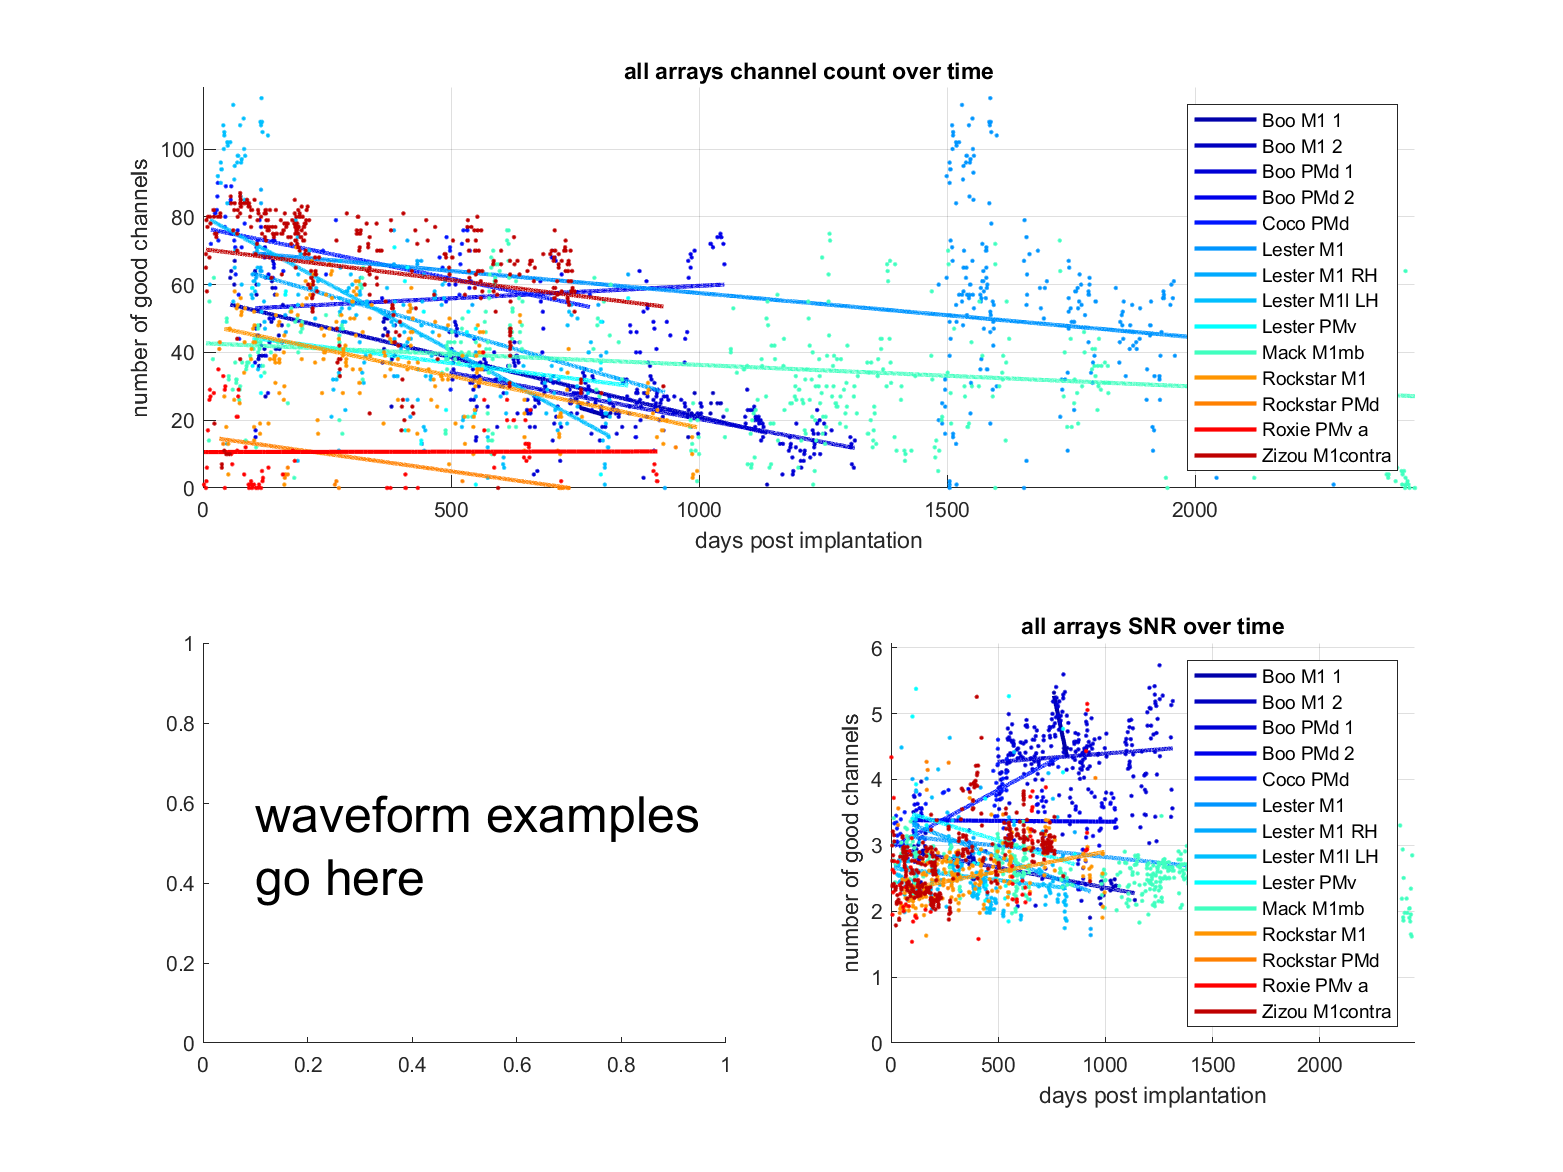
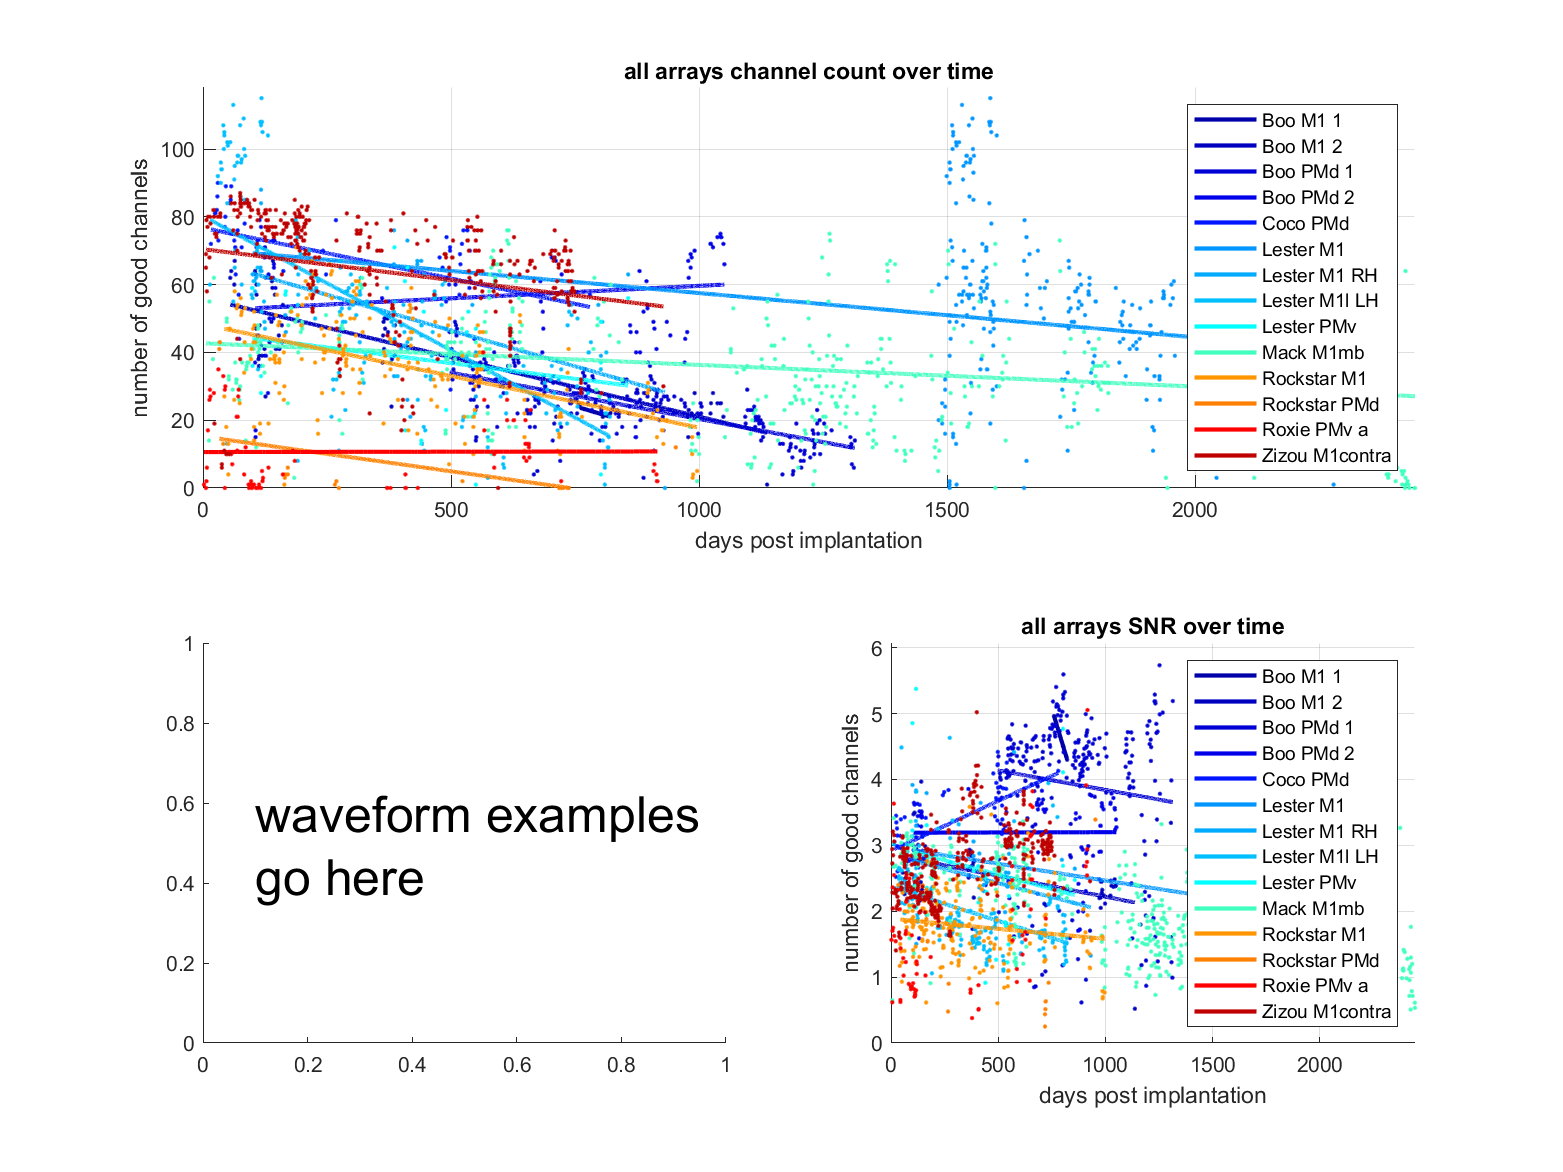
implement figure two code

Changed region(s): [[0.5528, 0.6143, 0.7678, 0.8601], [0.8906, 0.7679, 0.9213, 0.7986]]

diff --git a/code/paper_figures_code/figure_two.m b/code/paper_figures_code/figure_two.m
@@ -1,0 +1,139 @@
+function figure_two(array_data)
+
+figure('name','Long-term, chronic array recordings','visible','off','color','w');
+box off
+array_names = unique({array_data.array_name});
+colors = autumn(4);
+set(gcf,'pos',[350,200,1000,750])
+
+%% Figure 2a. Mean (se) number of channels over all arrays versus DPI.
+
+% histcounts and average
+iPlotName = 1;
+for iArray = 1:length(array_names)
+    file_count = 1;
+    for iFile = 1:size(array_data,2)
+        if strcmp(array_data(iFile).array_name,array_names{iArray})
+            good_channels_temp(file_count) = array_data(iFile).num_good_channels_corrected;
+            relative_days_temp(file_count) = array_data(iFile).relative_days;
+            file_count = file_count + 1;
+        end
+    end
+    
+        plot_names{iPlotName} = strrep(array_names{iArray},'_',' ');
+        quad_fit_to_good_channels = polyfit(relative_days_temp,good_channels_temp,1);
+        quad_fit_to_good_channels = ...
+            polyval(quad_fit_to_good_channels,min(relative_days_temp):max(relative_days_temp));
+        
+        if max(quad_fit_to_good_channels)>128
+            disp('stop, who are you even')
+        else
+            subject_lines{iPlotName,1} = min(relative_days_temp):max(relative_days_temp);
+            subject_lines{iPlotName,2} = quad_fit_to_good_channels;
+        end
+        
+        averaging_prep(iArray,subject_lines{iPlotName,1}) = subject_lines{iPlotName,2};
+%         averaging_prep(iArray,1:min(subject_lines{iPlotName,1})-1) = NaN;
+%         averaging_prep(iArray,max(subject_lines{iPlotName,1})+1:max([array_data.num_good_channels_corrected])) = NaN;
+       
+        
+        iPlotName = iPlotName + 1;
+    
+    clear good_channels_temp
+    clear relative_days_temp
+end
+
+averaging_prep(averaging_prep == 0) = NaN;
+avg_channels = nanmean(averaging_prep,1);
+avg_channels(isnan(avg_channels)) = 0;
+std_channels = nanstd(averaging_prep,1);
+std_channels(isnan(std_channels)) = 0;
+
+subplot(2,1,1); hold on;
+
+HSV_color = rgb2hsv(colors(1,:));
+HSV_color(2) = HSV_color(2) * .6;
+patch_color = hsv2rgb(HSV_color);
+
+patch([1:length(avg_channels) fliplr(1:length(avg_channels))],[avg_channels+std_channels fliplr(avg_channels-std_channels)],patch_color,'edgecolor','none')
+plot(avg_channels,'linewidth',2,'Color',colors(1,:));
+
+
+box off
+grid on
+xlabel('days post implantation');
+ylabel('Number of Good Channels');
+title('mean channel count over time');
+
+clear averaging_prep
+clear HSV_color
+%% Figure 2b. Mean (se) SNR over all arrays versus DPI.
+
+
+iPlotName = 1;
+for iArray = 1:length(array_names)
+    file_count = 1;
+    for iFile = 1:size(array_data,2)
+        if strcmp(array_data(iFile).array_name,array_names{iArray})
+            SNR_temp(file_count) = array_data(iFile).SNR_all_channels;
+            relative_days_temp(file_count) = array_data(iFile).relative_days;
+            file_count = file_count + 1;
+        end
+    end
+    
+        plot_names{iPlotName} = strrep(array_names{iArray},'_',' ');
+        quad_fit_to_SNR = polyfit(relative_days_temp,SNR_temp,1);
+        quad_fit_to_SNR = ...
+            polyval(quad_fit_to_SNR,min(relative_days_temp):max(relative_days_temp));
+        
+        if max(quad_fit_to_SNR)>128
+            disp('stop, who are you even')
+        else
+            subject_lines{iPlotName,1} = min(relative_days_temp):max(relative_days_temp);
+            subject_lines{iPlotName,2} = quad_fit_to_SNR;
+        end
+        
+        averaging_prep(iArray,subject_lines{iPlotName,1}) = subject_lines{iPlotName,2};
+%         averaging_prep(iArray,1:min(subject_lines{iPlotName,1})-1) = NaN;
+%         averaging_prep(iArray,max(subject_lines{iPlotName,1})+1:max([array_data.num_good_channels_corrected])) = NaN;
+       
+        
+        iPlotName = iPlotName + 1;
+    
+    clear SNR_temp
+    clear relative_days_temp
+end
+
+averaging_prep(averaging_prep == 0) = NaN;
+avg_SNR = nanmean(averaging_prep,1);
+avg_SNR(isnan(avg_SNR)) = 0;
+std_SNR = nanstd(averaging_prep,1);
+std_SNR(isnan(std_SNR)) = 0;
+
+subplot(2,1,2); hold on;
+
+HSV_color = rgb2hsv(colors(2,:));
+HSV_color(2) = HSV_color(2) * .6;
+patch_color = hsv2rgb(HSV_color);
+
+patch([1:length(avg_SNR) fliplr(1:length(avg_SNR))],[avg_SNR-std_SNR fliplr(avg_SNR+std_SNR)],patch_color,'edgecolor','none')
+plot(avg_SNR,'linewidth',2,'Color',colors(2,:));
+
+box off
+grid on
+xlabel('days post implantation');
+ylabel('SNR');
+title('mean SNR over time');
+
+
+%% Saving
+if startsWith(matlab.desktop.editor.getActiveFilename,'C:\Users\calebsponheim\Documents\')
+    saveas(gcf,'C:\Users\calebsponheim\Documents\git\array_stability\figures\paper_figures\figure_two.png');
+else
+    saveas(gcf,'figure_two.png');
+end
+
+close(gcf);
+
+
+end
